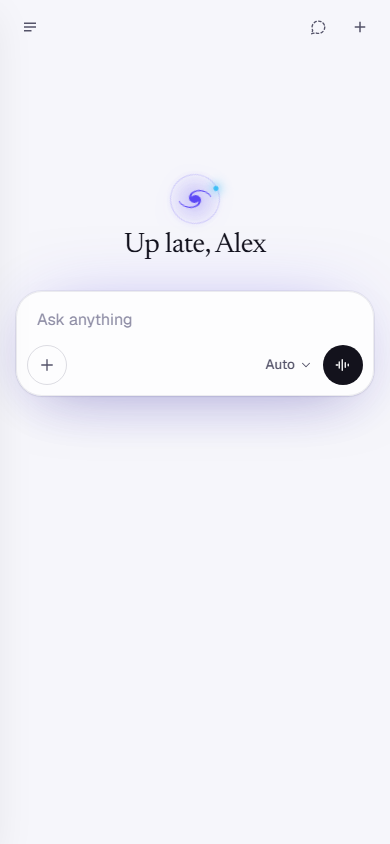
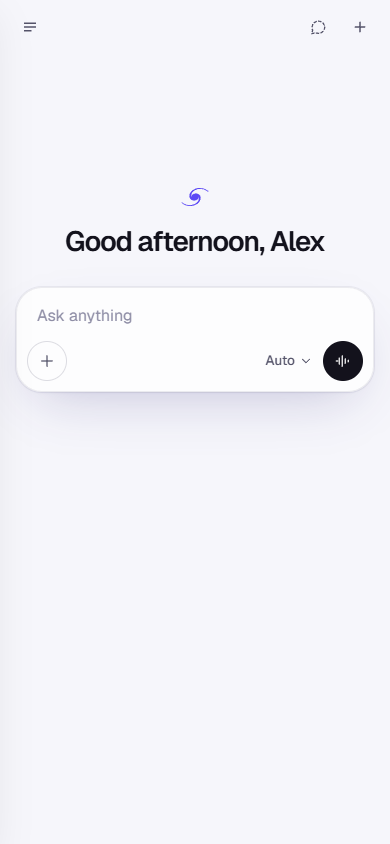
README: the team, 101 measured skills, Andromeda's own measurements; the last purple accents in ink; new pictures

Changed region(s): [[0.0923, 0.3389, 0.9538, 0.4929], [0.1538, 0.2156, 0.8308, 0.3081]]

diff --git a/index.html b/index.html
@@ -1406,6 +1406,18 @@ html.morphing *, html.morphing *::before, html.morphing *::after { transition: n
 .dp-end { border-bottom: 0; }
 .dp-end .dp-m { border-color: transparent; background: var(--ink); color: var(--onink); }
 @media (max-width: 620px) { .stats b { font-size: 24px; } .dp { grid-template-columns: 24px 1fr; } .dp-m { grid-column: 2; justify-self: start; } }
+
+/* ---- the last of the purple: what's selected and what was made, in ink too */
+.art-card .art-ic, .sp-ic { background: color-mix(in srgb, var(--text) 6%, transparent); color: var(--text); }
+.art-card.on { border-color: color-mix(in srgb, var(--text) 45%, transparent); box-shadow: 0 0 0 1px color-mix(in srgb, var(--text) 18%, transparent); }
+.art-card.on .art-go { color: var(--text); border-color: color-mix(in srgb, var(--text) 35%, transparent); }
+.art-card:hover { border-color: color-mix(in srgb, var(--text) 30%, var(--line2)); }
+.pop .mi.on { background: color-mix(in srgb, var(--text) 7%, transparent); }
+.pop .mi.on > svg:first-child, .pop .mi .ck { color: var(--text); }
+.pop .st-pill.on { color: var(--onink); background: var(--ink); border-color: var(--ink); }
+.lib-th { background: color-mix(in srgb, var(--text) 5%, var(--bg3)); color: var(--text); }
+.drop > div { border-color: color-mix(in srgb, var(--text) 35%, transparent); color: var(--text); }
+.sp-i.active svg { color: var(--text); }
 </style>
 </head>
 <body>

diff --git a/README.md b/README.md
@@ -62,11 +62,15 @@ By measurement, not by guesswork. Every request is first read by a fast model fo
 - **Beyond chat:** web pages, React apps, a site from a screenshot, reading text in images, diagrams, homework photos, live search, documents, agentic coding.
 - **The studio:** photorealistic pictures, portraits, art, cartoons, text in pictures, image editing, video from a still.
 
-The model that scores highest on that exact mix does the work. No lab is favoured by hand, and a new model counts the day it's rated. Code and anything a second expert could catch mistakes in (proofs, maths, medical, legal or financial facts) is checked by the best model from a different lab and fixed until it passes. For code, Claude writes it unless another model measures clearly better at that particular code.
+- **Agents:** finishing the job, never inventing tools or results, reliability over long command-line work, recovering from errors, following directions.
+
+That's 101 measured skills. Every piece of a team answer is weighed on its own mix of them, and the model that scores highest on exactly that mix does it. No lab is favoured by hand. Code goes through the team too: the model measured best at code puts it together and the best code checker reviews it.
+
+**Andromeda's own measurements.** Public leaderboards stop at a hundred skills; real work has far more ("Rust async lifetimes", "a story for a 9-year-old"). Every piece carries tags for exactly what it was, and every checked answer records whether each model's piece held up. Added up across everyone (only the tags and pass or fail, never what anyone wrote), this becomes a leaderboard for every tag, and once there's enough evidence it outweighs the general ratings.
 
 **The best, run the way it was rated.** Many models are rated more than once, at different thinking efforts ("Claude Opus 5.5 (Max)", "GPT-5.6 Sol (xHigh)"): Andromeda runs each at the effort that scored best, with room to think that long. Each of its own features goes to the model measured best at exactly that: apps and simulations by the web-app boards, a site from a screenshot by the screenshot-to-site board, flashcards and quizzes by expertise and factual accuracy, spreadsheets by maths, decks and documents by writing and instruction following, the video director by creative writing. Live questions are answered with each lab's own web search, the way the search board rates them. The whole conversation is always sent, and Claude rereads it from its cache at a tenth of the price, the only saving that changes nothing in the answer.
 
-The ratings come from `arena.json`, refreshed every day by a GitHub Action (`.github/workflows/arena.yml`, which runs `tools/arena.mjs`). Without it, Andromeda falls back to a built-in list of which labs lead at each kind of task. If a model is busy, the next one in line takes over.
+The ratings come from LMArena's public dataset. The page reads the latest boards itself once a day (and `arena.json`, made by `tools/arena.mjs`, is the fallback), so a model that takes the lead is used the day it's rated. A brand-new version stands just behind its predecessor until its own ratings arrive, and takes over only if it actually measures better. If a model is busy, the next one in line takes over.
 
 ## Credits
 
